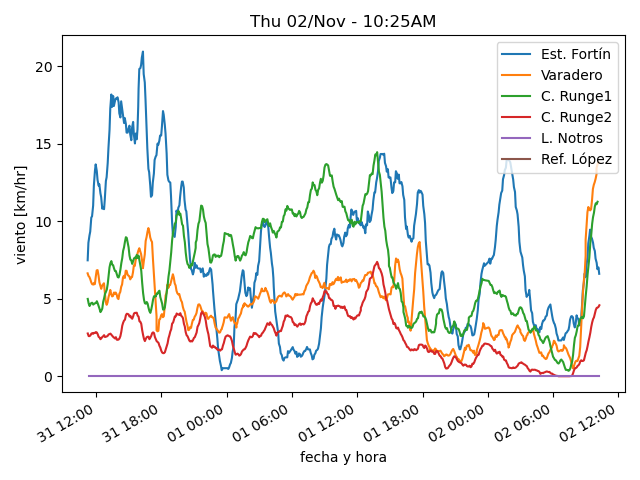
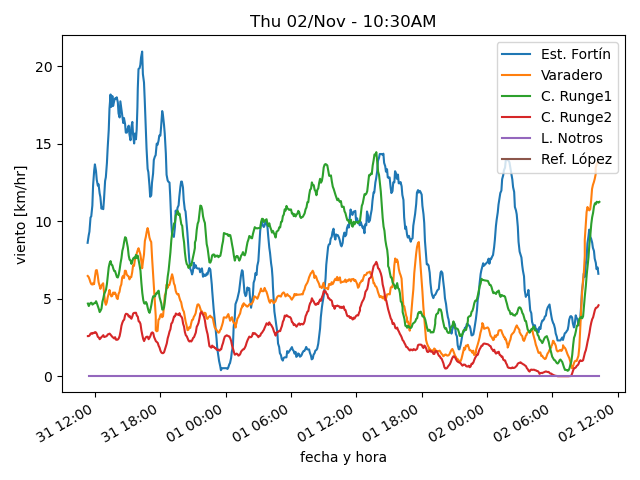
actualiza datos

diff --git a/estaciones/estacion3.html b/estaciones/estacion3.html
@@ -18,32 +18,32 @@
     </tr>
     <tr>
      <td class="stats_data">
-      10:04AM
+      10:19AM
      </td>
     </tr>
     <tr>
      <td class="stats_data">
-      6.6⁰C
+      6.2⁰C
      </td>
     </tr>
     <tr>
      <td class="stats_data">
-      3.4⁰C
+      3.2⁰C
      </td>
     </tr>
     <tr>
      <td class="stats_data">
-      80.2%
+      81.3%
      </td>
     </tr>
     <tr>
      <td class="stats_data">
-      1011.72hPa
+      1011.41hPa
      </td>
     </tr>
     <tr>
      <td class="stats_data">
-      8.2/11.4 km/hr WNW
+      8.6/11.0 km/hr NNW
      </td>
     </tr>
     <tr>
@@ -58,7 +58,7 @@
     </tr>
     <tr>
      <td class="stats_data">
-      734.0 W/m²
+      774.8 W/m²
      </td>
     </tr>
    </tbody>
